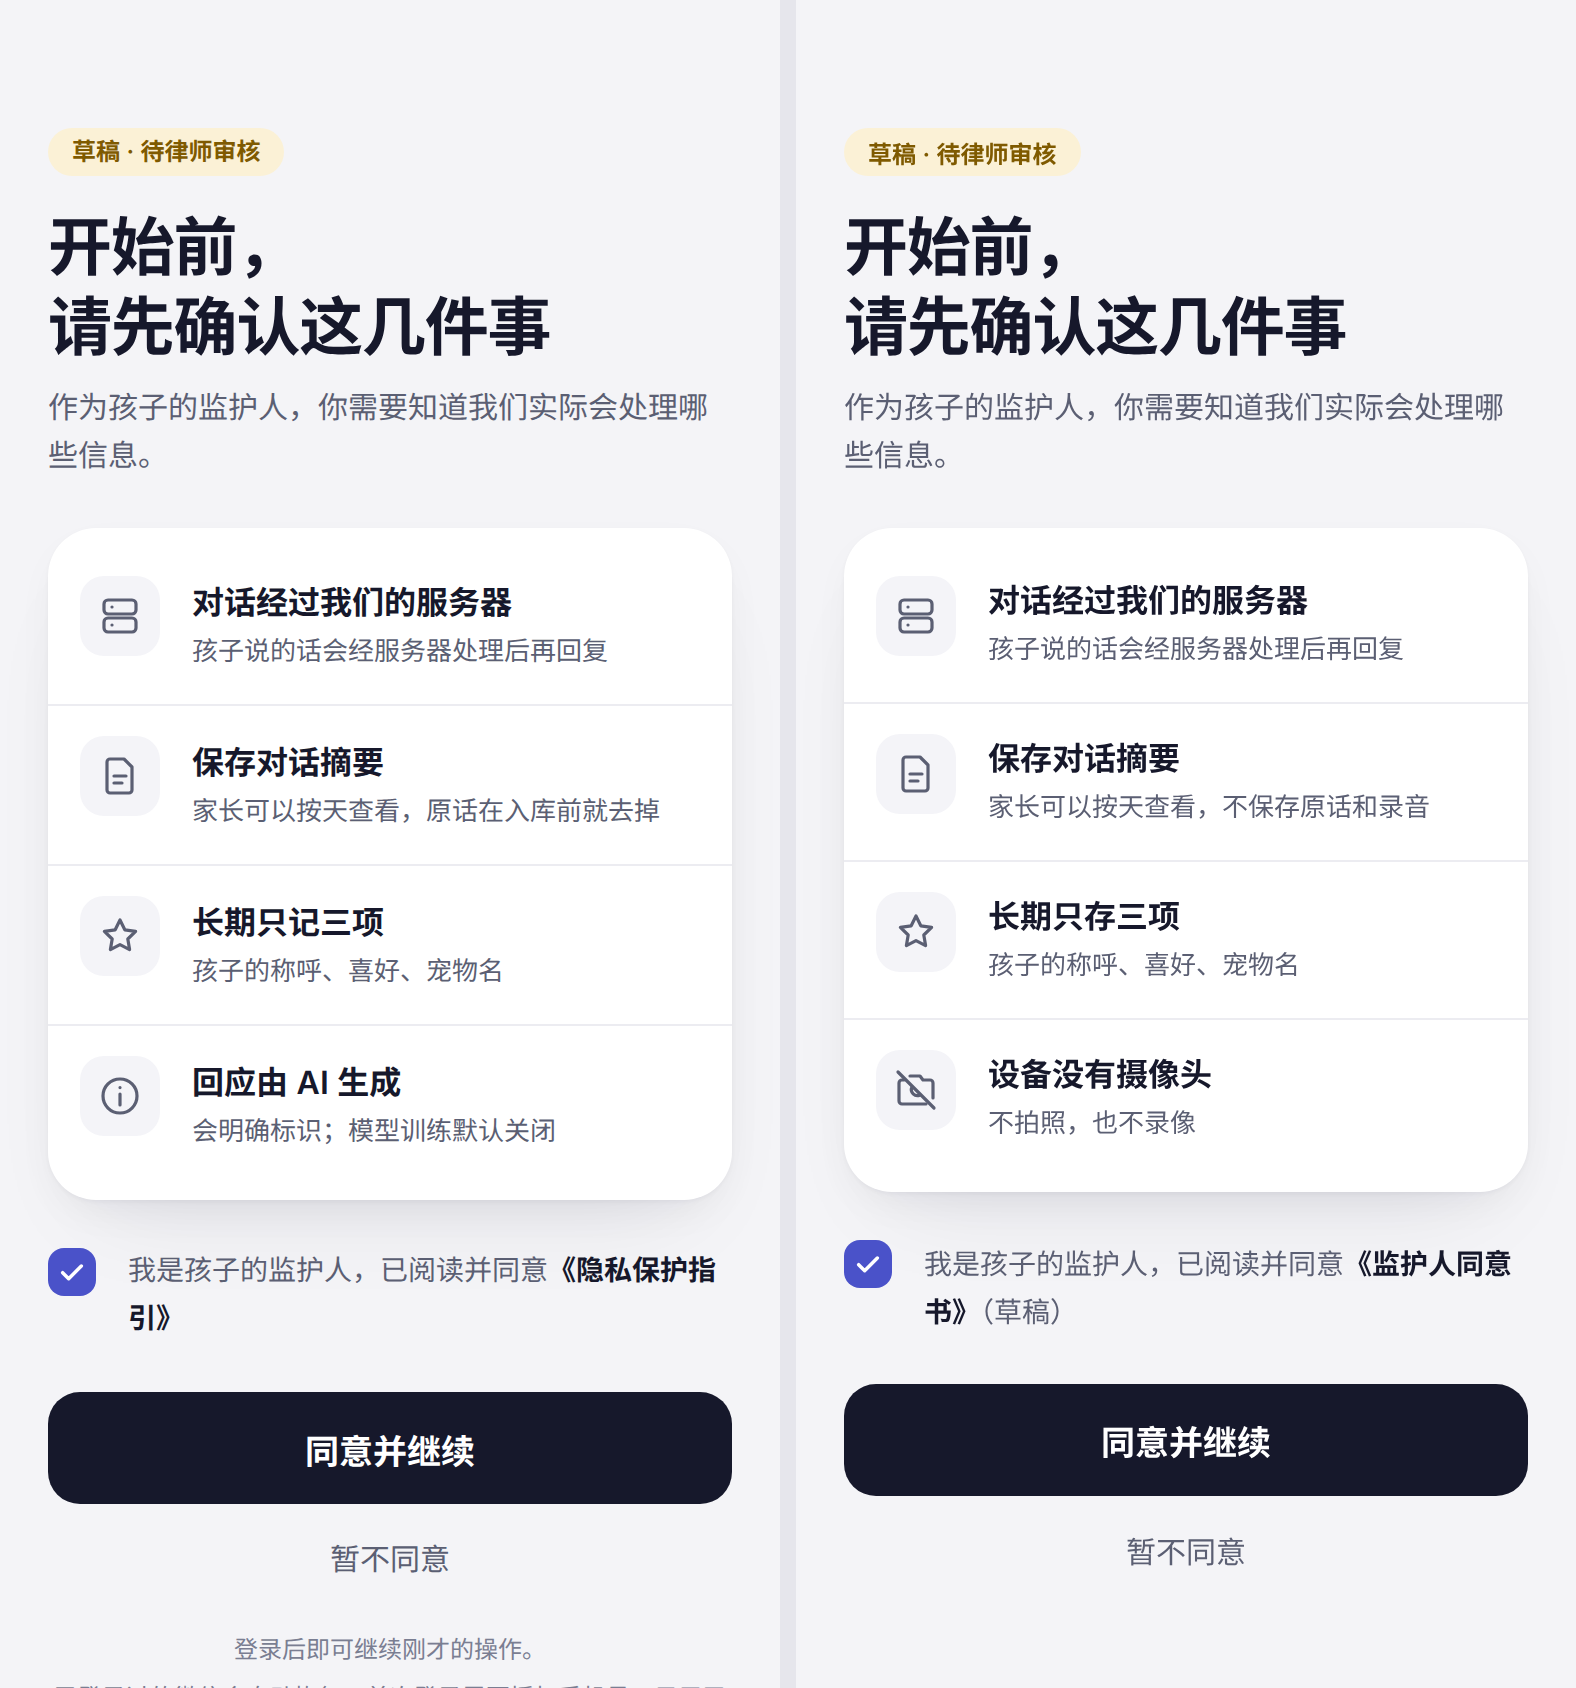
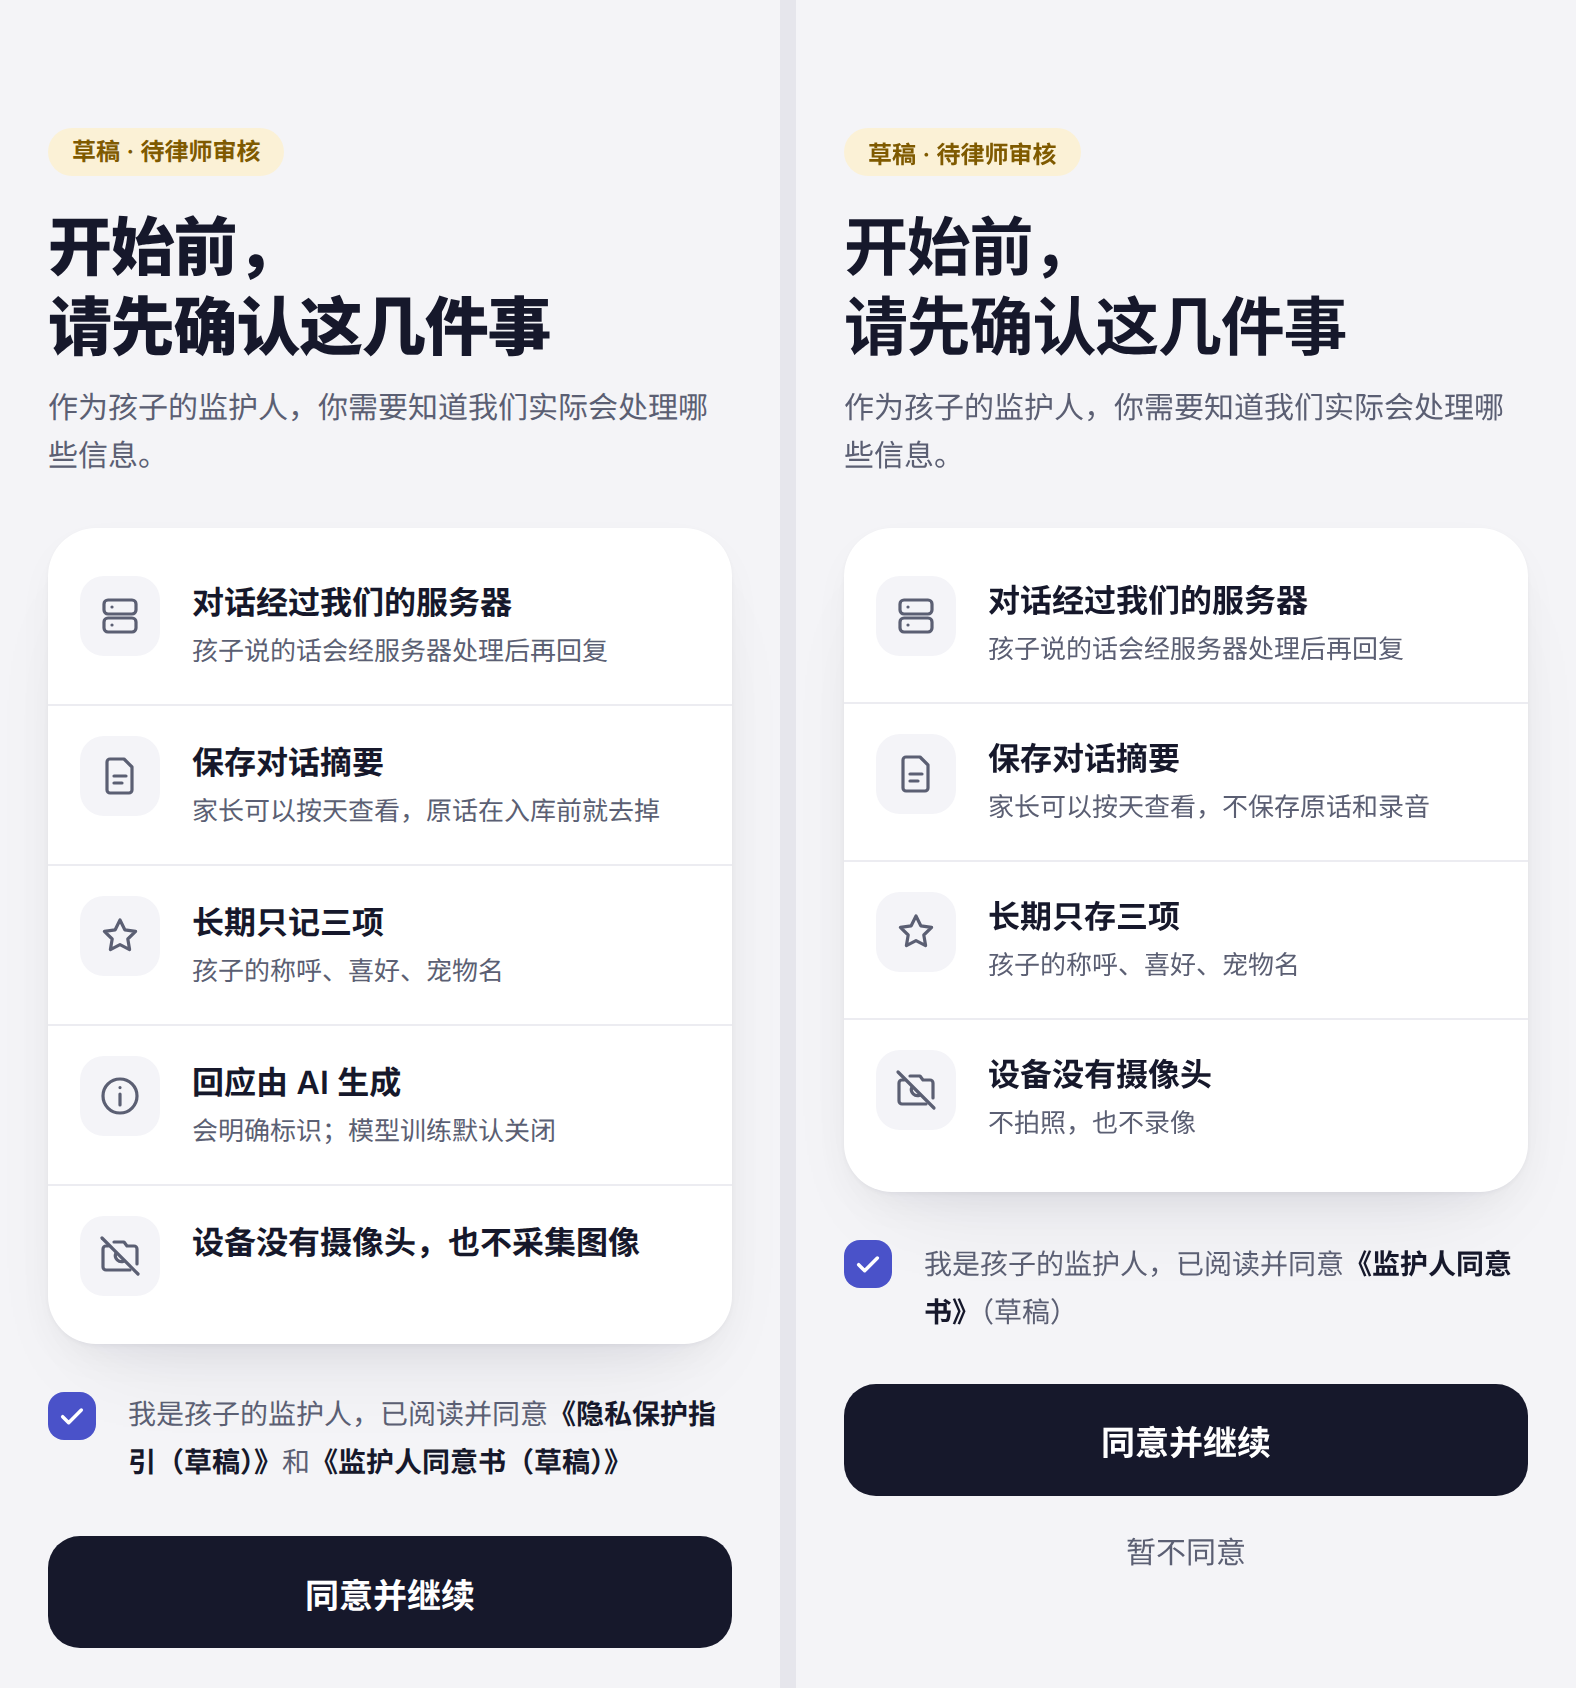
docs(app-v4): reshoot consent with the fifth fact
The live consent screen now has five facts and two draft links. The 02-consent diffRatio is 0.2740.

Changed region(s): [[0.0311, 0.7085, 0.4664, 0.9858], [0.0311, 0.1232, 0.342, 0.2156]]

diff --git a/docs/design/app-v4/TEST-REPORT.md b/docs/design/app-v4/TEST-REPORT.md
@@ -8,8 +8,8 @@ The performance table comes from runs on 2026-10-14. The unit tests, forbidden-c
 
 | Check | Result |
 |---|---|
-| Unit, function, perf and layout tests (`npm test`) | 532 of 532 pass, 0 skipped |
-| Forbidden UI copy (`npm run check:forbidden-copy`) | Pass on 63 files |
+| Unit, function, perf and layout tests (`npm test`) | 539 of 539 pass, 0 skipped |
+| Forbidden UI copy (`npm run check:forbidden-copy`) | Pass on 67 files |
 | `12356` in shipped `.js`, `.wxml`, `.json` and `.wxss` files | Only in `pages/attention/index.wxml`, tip 4, pinned by `attention-v4.test.js` |
 | `node --check` on every tracked JS file in the app | 0 failures in 135 files |
 | Page screenshots at five views (`scripts/screenshot-pages.js`) | 145 shots, 0 layout issues |
@@ -75,7 +75,7 @@ Do not run `npm --prefix apps/miniprogram exec -- node scripts/v4-parity/render-
 | Screen | Live page and state | Before | Now | Floor |
 |---|---|---:|---:|---:|
 | 01-login | `pages/home`, guest | 0.6475 | 0.0575 | 0.0572 |
-| 02-consent | `pages/auth`, guest | 0.3906 | 0.0945 | 0.0883 |
+| 02-consent | `pages/auth`, guest | 0.3906 | 0.2740 | 0.0883 |
 | 03-home | `pages/home`, signed in | 0.3162 | 0.0711 | 0.0490 |
 | 04-summary | `pages/memory`, today summarized | 0.3394 | 0.1901 | 0.0430 |
 | 05-attention | `pages/attention`, one open alert | 0.4991 | 0.0561 | 0.0536 |
@@ -88,6 +88,8 @@ Before is the committed `compare-summary.json` at `b63fa853`. That run shot 05-a
 
 The session-limits and stories change redraws 03-home and 06-usage, and only those two were shot again. 03-home went from 0.0703 to 0.0711. Its ring band, from 316 CSS px, rose from 0.122 to 0.125 when the caption grew from 「分钟上限」 to 「分钟 · 单次上限」. 06-usage went from 0.1825 to 0.1823. The new 离线故事 card fills the space below 安静时段 where the privacy rows were. The design shows other content there, so the card counts as a difference just as the rows did. 10-profile was not shot again. The closed page looks the same. 关于 now opens a left-aligned card on that page, and `profile-v4.test.js` renders the card.
 
+The consent change reshot only 02-consent. diffRatio went from 0.0945 to 0.2740.
+
 ### Where the remaining difference sits
 
 `diff-bands.js` splits each pair into eight bands of 211 device px, about 105 CSS px each, and prints the diffRatio of each band. The columns below are the band's top edge in CSS px.
@@ -95,7 +97,7 @@ The session-limits and stories change redraws 03-home and 06-usage, and only tho
 | Screen | 0 | 105 | 211 | 316 | 422 | 527 | 633 | 738 |
 |---|---:|---:|---:|---:|---:|---:|---:|---:|
 | 01-login | 0.001 | 0.063 | 0.001 | 0.095 | 0.191 | 0.044 | 0.034 | 0.031 |
-| 02-consent | 0.019 | 0.039 | 0.043 | 0.139 | 0.098 | 0.232 | 0.111 | 0.075 |
+| 02-consent | 0.019 | 0.088 | 0.043 | 0.139 | 0.098 | 0.415 | 0.854 | 0.537 |
 | 03-home | 0.016 | 0.066 | 0.072 | 0.125 | 0.033 | 0.116 | 0.122 | 0.020 |
 | 04-summary | 0.017 | 0.059 | 0.040 | 0.063 | 0.055 | 0.349 | 0.769 | 0.168 |
 | 05-attention | 0.004 | 0.008 | 0.030 | 0.082 | 0.052 | 0.077 | 0.108 | 0.088 |
@@ -118,13 +120,16 @@ The guest home is the full-bleed login screen with no tab bar. The greeting foll
 
 ![02-consent, live page left, design right](mp-screenshots/side-by-side/02-consent.png)
 
-The consent screen leads the auth page, with the facts card, the guardian tick, 「同意并继续」 and 「暂不同意」 above the fold. The name and avatar step comes after phone authorization, and only on a first registration. Three fact strings differ from the design on purpose.
+The consent screen leads the auth page. The facts card, the guardian tick, 「同意并继续」 and 「暂不同意」 sit above the fold. The name and avatar step comes after phone authorization, and only on a first registration. This reshoot is the only screen that changed. diffRatio went from 0.0945 to 0.2740. Horizontal overflow and content under the capsule are both 0. The bands from 527 CSS px rose to 0.415, 0.854 and 0.537 because a fifth fact and a longer checkbox push 「暂不同意」 and the login notes into the area where the design has already ended.
+
+Four fact strings differ from the design on purpose.
 
 - Fact 2 ends with 「原话在入库前就去掉」, not 「不保存原话和录音」. A family that opts in on the privacy page has raw audio kept until it revokes, so 「不保存录音」 would be false for that family.
-- Fact 3 reads 「长期只记三项」, the wording of the memory page's 「机器人长期只记住这三件事」.
-- Fact 4 is 「回应由 AI 生成」 in place of 「设备没有摄像头」. `auth-layout.test.js` pins the four facts and rejects a camera claim.
+- Fact 3 reads 「长期只记三项」, the wording of the memory page's 「机器人长期只记住这三件事」. The design says 「长期只存三项」.
+- Fact 4 stays 「回应由 AI 生成」, with the sub 「会明确标识；模型训练默认关闭」. The design has no AI fact.
+- Fact 5 is 「设备没有摄像头，也不采集图像」. The design's camera row uses the shorter title 「设备没有摄像头」 and the sub 「不拍照，也不录像」. The live title is the full sentence a parent reads. It does not mention later hardware or a connector. The icon is `cam`.
 
-The checkbox names 《隐私保护指引》, the document `wx.openPrivacyContract` opens, because the app has no separate guardian consent document. Notes on login and recording follow 「暂不同意」, below the design's last line. The highest band, from 527 CSS px, is the fourth fact and the checkbox line.
+The checkbox reads 「我是孩子的监护人，已阅读并同意《隐私保护指引（草稿）》和《监护人同意书（草稿）》」. Each title is its own link, so a tap opens that document instead of only toggling the box. 《隐私保护指引（草稿）》 still calls `wx.openPrivacyContract`. 《监护人同意书（草稿）》 opens `pages/guardian-consent/index`. The page chip is 「草稿 · 待律师审核」. Its paragraphs match `docs/compliance/guardian-consent-draft.md`. No standalone guardian consent file existed under `docs/` before that draft. The page footer cites `docs/compliance/child-audio-transcript-ephemeral.md`. Notes on login and recording still follow 「暂不同意」.
 
 ### 03-home
 
@@ -212,7 +217,7 @@ These come from WeChat or the test machine, and no page change removes them.
 - Subscription and push UI stays behind `subscriptionPushEnabled`, which defaults to false.
 - Fixture names, roles, dates and counts replace the design's samples and its 「数字为示例」 captions.
 - Usage has one per-session slider, because the device has no daily cap.
-- Three consent facts and the consent link differ, as listed under 02-consent.
+- Five consent facts and two draft links differ from the design, as listed under 02-consent.
 - The attention copy uses TA.
 - 07-content has no page.
 
@@ -368,6 +373,10 @@ Each v4 test file loads the live page through the harness, drives its handlers t
 - A request timeout on the consent screen shows 「网络不太好，请稍后再试。」 and does not show `request:fail`.
 - The name step's back button returns to consent and drops the held code.
 
+`guardian-consent.test.js` has 1 test.
+
+- The draft page shows 「草稿 · 待律师审核」, the source path `docs/compliance/child-audio-transcript-ephemeral.md`, and the paragraphs from `docs/compliance/guardian-consent-draft.md` in order. The rendered text includes 「设备没有摄像头，也不采集图像」 and does not claim a later camera or connector.
+
 `memory-v4.test.js` has 3 tests.
 
 - Summary days carry the date only, and a day without a summary says how many chats it had.
@@ -476,7 +485,7 @@ Each v4 test file loads the live page through the harness, drives its handlers t
 - A persona whose fallback voice is unknown shows no voice instead of the first companion.
 - Pickers and the rate slider use the shared v4 field chrome.
 
-`sub-page-nav.test.js` runs 2 tests for each of the 8 secondary pages, plus the auth consent step and child-memory.
+`sub-page-nav.test.js` runs 2 tests for each of the 9 secondary pages, plus the auth consent step and child-memory.
 
 - The page draws its own round back button under the status bar instead of the native bar.
 - Back pops the stack, or opens the right tab when it is the first page.
@@ -497,7 +506,7 @@ These files guard structure, styles and budgets.
 
 Older tests that asserted v3 strings, structure or removed rows now assert the v4 equivalents.
 
-- `auth-layout.test.js` pins the four consent facts and rejects a camera or view-and-delete promise.
+- `auth-layout.test.js` pins the five consent facts, including 「设备没有摄像头，也不采集图像」, and rejects a view-or-delete promise and any later-hardware claim.
 - `child-memory.test.js` asserts the field order and icons, and no retention-period copy.
 - `profile-device-binding.test.js` asserts the account card's 「已绑定 N 台设备」 for each binding state, and that `openDevice`, bound to the device card and the 设备管理 row, opens the 设备 tab.
 - `profile-mascot.test.js` asserts that roles and custom personas live on the 角色 tab, not on the profile.
